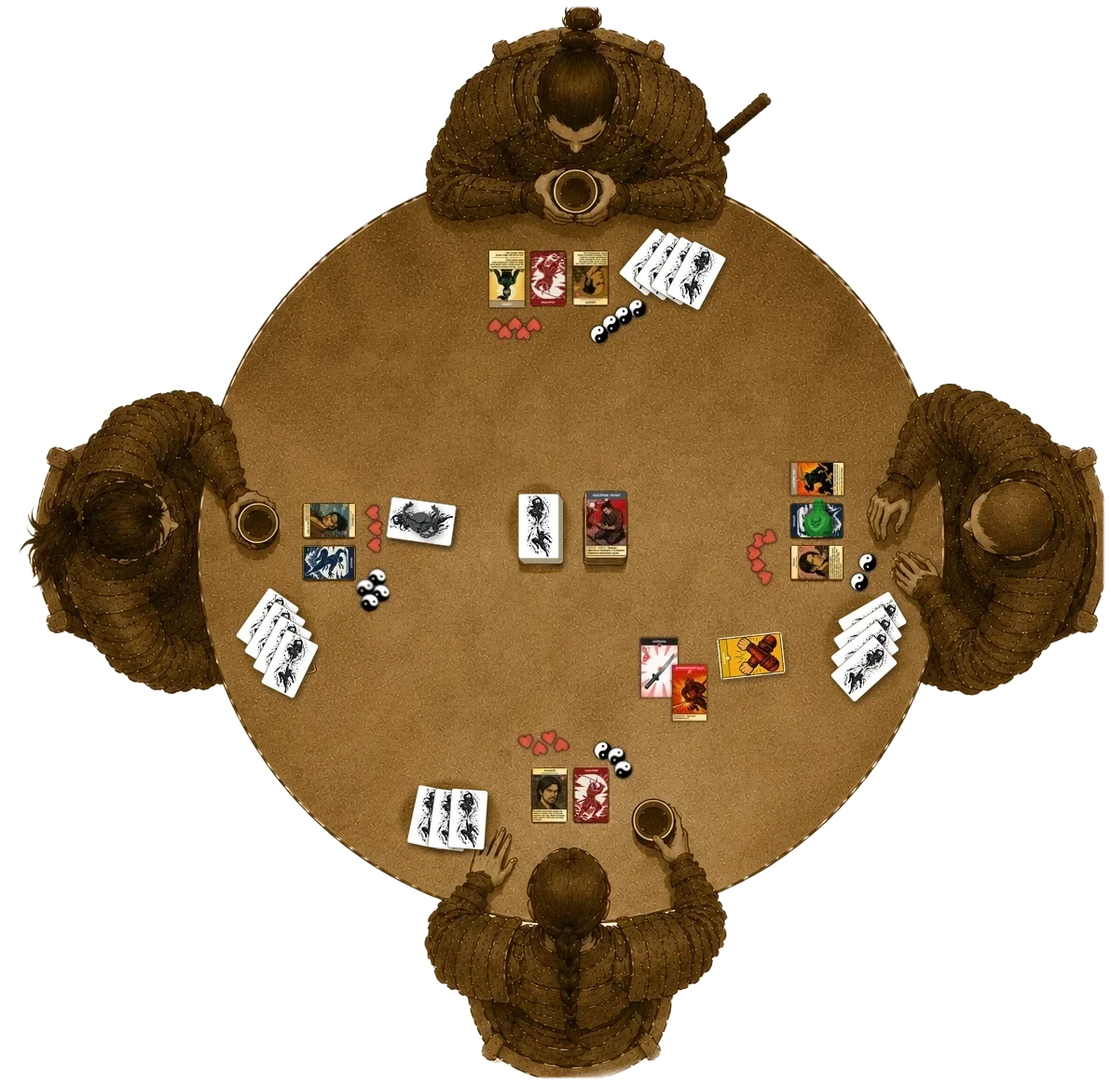
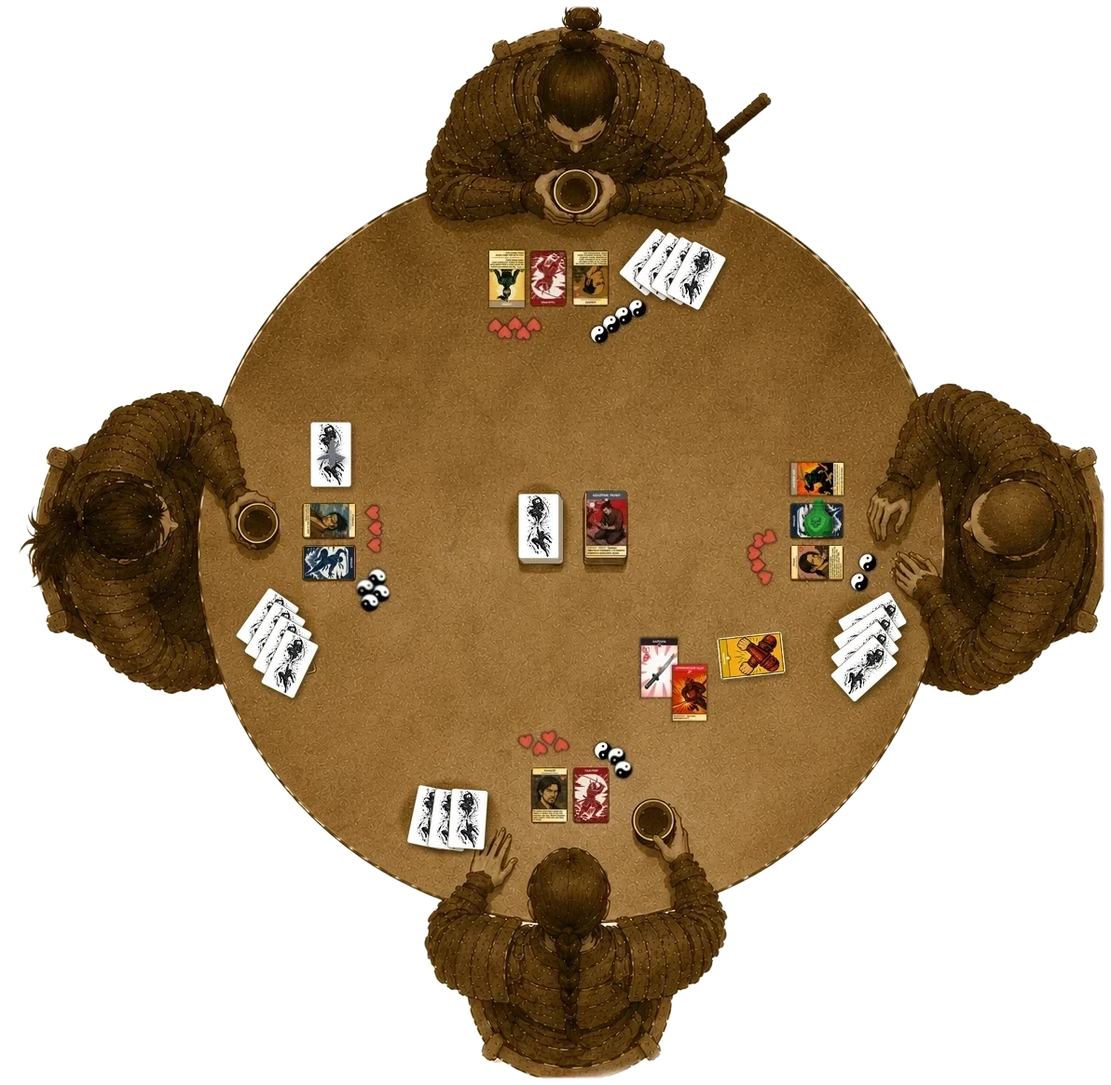
Стол: ловушка — рубашка портретом над персонажем и ролью с фигуркой макибиси; обмен карт — в «Набор карт»
tools/compose-table-trap.py: старый капкан боком закрыт куском исходного
стола (table-v1), новая ловушка (355,488) — перпендикулярно карте персонажа,
макибиси на ней стальная (чёрная на туши рубашки терялась); подписи
«Ловушка» и «Персонаж» в table_fig.py переставлены. Прежний монтаж —
media/obsolete/table-v3-beartrap.webp.
«Ход»: «карты групповых и обычных действий»; абзац про обмен двух карт
перенесён в подраздел «Набор карт» (после врезки, ниже веера рубашек).

Changed region(s): [[0.2794, 0.3708, 0.4346, 0.5253]]

diff --git a/rules/rules.html b/rules/rules.html
@@ -102,12 +102,11 @@
           <div class="side-cards fan n2"><div class="card-embed" style="--k:-0.5;--i:0"><img src="media/cards/109.webp" alt=""></div><div class="card-embed" style="--k:0.5;--i:1"><img src="media/cards/84.webp" alt=""></div></div>
         </aside>
 <p>Ход устроен так: в начале хода игрок сбрасывает лишние карты, чтобы на руке осталось не больше девяти; затем действует; в конце хода набирает карты.</p>
-<p>В свой ход игрок может: провести до двух попыток атаки оружием по любому живому игроку, разыгрывать карты действий и групповых действий, обмениваться картами, выставлять перед собой ловушку, накладывать эффекты, менять стойку и ауру.</p>
-<p>Кроме того, в свой ход можно сбросить две карты одного типа — оружие, ловушка, стойка, защита, эффект, вмешательство, модификатор или групповое действие — и взять одну новую карту из колоды. Либо сбросить две абсолютно одинаковых карты и взять две новых.</p>
+<p>В свой ход игрок может: провести до двух попыток атаки оружием по любому живому игроку, разыгрывать карты групповых и обычных действий, обмениваться картами, выставлять перед собой ловушку, накладывать эффекты, менять стойку и ауру.</p>
 <aside class="note">Между ходами рука не ограничена: что сбросить, игрок решает только перед стартом своего следующего хода — уже зная всё, что случилось за столом.</aside>
         </div>
       </section>
-      <section class="chapter continued" id="turn-4">
+      <section class="chapter continued" id="turn-3">
         <div class="chapter-body">
         <aside class="chapter-side">
           <div class="side-cards fan n2"><div class="card-embed" style="--k:-0.5;--i:0"><img src="media/cards/back.webp" alt=""></div><div class="card-embed" style="--k:0.5;--i:1"><img src="media/cards/back.webp" alt=""></div></div>
@@ -115,6 +114,7 @@
 <h4>Набор карт</h4>
 <p>В конце своего хода вы берёте три карты из колоды, затем каждый игрок противоположной команды берёт по одной. Порядок, в каком игроки тянут карты, не важен — ждать друг друга не нужно.</p>
 <aside class="note">Меньшая команда в неравных режимах берёт на одну карту больше — см. «Неравные команды» в конце правил.</aside>
+<p>Кроме того, в свой ход можно сбросить две карты одного типа — оружие, ловушка, стойка, защита, эффект, вмешательство, модификатор или групповое действие — и взять одну новую карту из колоды. Либо сбросить две абсолютно одинаковых карты и взять две новых.</p>
 <h4>Восстановление</h4>
 <p>Если вы побывали мёртвым, ваш следующий ход начинается с фазы восстановления: вместо обычного сброса до девяти вы можете скинуть любое количество карт и добрать до семи. Умерший от яда восстановления не получает — см. «Яд».</p>
         </div>
@@ -135,7 +135,7 @@
           <h2 class="chapter-title">Стол<span class="kanji" aria-hidden="true">卓</span></h2>
 <p>Так выглядит стол в середине партии на четверых: у каждого игрока перед собой своя зона, посреди стола — общие стопки. Игроки сидят через одного, поэтому напротив — союзник, а по бокам — противники.</p>
 <figure class="table-figure">
-        <div class="table-pic"><img src="media/table.webp" alt="" width="1192" height="1165"><svg class="table-overlay" viewBox="0 0 1192 1165" xmlns="http://www.w3.org/2000/svg" aria-hidden="true"><defs><marker id="tf-arrow" viewBox="0 0 10 10" refX="9" refY="5" markerWidth="5" markerHeight="5" orient="auto-start-reverse"><path d="M0,0 L10,5 L0,10 z"/></marker><marker id="tf-arrow-big" viewBox="0 0 10 10" refX="8" refY="5" markerWidth="4" markerHeight="4" orient="auto-start-reverse"><path d="M0,0 L10,5 L0,10 z"/></marker></defs><path class="tf-flow" d="M 790 1125 C 930 1100 1020 950 1005 775"/><g class="tf-lines"><line x1="480" y1="300" x2="515" y2="300"/><line x1="598" y1="402" x2="593" y2="335"/><line x1="818" y1="357" x2="760" y2="315"/><line x1="359" y1="473" x2="430" y2="540"/><line x1="442" y1="468" x2="365" y2="532"/><line x1="521" y1="523" x2="560" y2="565"/><line x1="692" y1="513" x2="672" y2="530"/><line x1="815" y1="463" x2="855" y2="500"/><line x1="827" y1="545" x2="862" y2="552"/><line x1="813" y1="739" x2="812" y2="732"/><line x1="636" y1="715" x2="688" y2="712"/><line x1="476" y1="793" x2="565" y2="800"/><line x1="704" y1="812" x2="683" y2="812"/></g><g class="tf-labels"><g transform="translate(376,277)"><rect width="104" height="46" rx="8"/><text class="tf-txt" x="52.0" y="24.0">Стойка</text></g><g transform="translate(523,402)"><rect width="154" height="46" rx="8"/><text class="tf-txt" x="77.0" y="24.0">Карта роли</text></g><g transform="translate(810,357)"><rect width="79" height="46" rx="8"/><text class="tf-txt" x="39.5" y="24.0">Рука</text></g><g transform="translate(277,427)"><rect width="116" height="46" rx="8"/><text class="tf-txt" x="58.0" y="24.0">Ловушка</text></g><g transform="translate(406,422)"><rect width="129" height="46" rx="8"/><text class="tf-txt" x="64.5" y="24.0">Персонаж</text></g><g transform="translate(448,477)"><rect width="104" height="46" rx="8"/><text class="tf-txt" x="52.0" y="24.0">Колода</text></g><g transform="translate(674,467)"><rect width="92" height="46" rx="8"/><text class="tf-txt" x="46.0" y="24.0">Сброс</text></g><g transform="translate(732,417)"><rect width="116" height="46" rx="8"/><text class="tf-txt" x="58.0" y="24.0">Эффекты</text></g><g transform="translate(773,517)"><rect width="54" height="46" rx="8"/><text class="tf-txt" x="27.0" y="24.0">Яд</text></g><g transform="translate(763,739)"><rect width="104" height="46" rx="8"/><text class="tf-txt" x="52.0" y="24.0">Защита</text></g><g transform="translate(444,682)"><rect width="191" height="76" rx="8"/><text class="tf-txt" x="95.5" y="24.0">Атака: оружие</text><text class="tf-txt" x="95.5" y="54.0">+ модификатор</text></g><g transform="translate(384,767)"><rect width="92" height="46" rx="8"/><text class="tf-txt" x="46.0" y="24.0">Жизни</text></g><g transform="translate(704,789)"><rect width="191" height="46" rx="8"/><text class="tf-txt" x="95.5" y="24.0">Победные очки</text></g><g transform="translate(1027,937)"><rect width="116" height="46" rx="8"/><text class="tf-txt" x="58.0" y="24.0">Атакует</text></g></g><g class="tf-tags"><g transform="translate(802,127)"><rect width="116" height="46" rx="23"/><text x="58.0" y="24.0">Самурай</text></g><g transform="translate(1028,372)"><rect width="104" height="46" rx="23"/><text x="52.0" y="24.0">Ниндзя</text></g><g transform="translate(702,1037)"><rect width="116" height="46" rx="23"/><text x="58.0" y="24.0">Самурай</text></g><g transform="translate(88,377)"><rect width="104" height="46" rx="23"/><text x="52.0" y="24.0">Ниндзя</text></g></g></svg></div>
+        <div class="table-pic"><img src="media/table.webp" alt="" width="1192" height="1165"><svg class="table-overlay" viewBox="0 0 1192 1165" xmlns="http://www.w3.org/2000/svg" aria-hidden="true"><defs><marker id="tf-arrow" viewBox="0 0 10 10" refX="9" refY="5" markerWidth="5" markerHeight="5" orient="auto-start-reverse"><path d="M0,0 L10,5 L0,10 z"/></marker><marker id="tf-arrow-big" viewBox="0 0 10 10" refX="8" refY="5" markerWidth="4" markerHeight="4" orient="auto-start-reverse"><path d="M0,0 L10,5 L0,10 z"/></marker></defs><path class="tf-flow" d="M 790 1125 C 930 1100 1020 950 1005 775"/><g class="tf-lines"><line x1="480" y1="300" x2="515" y2="300"/><line x1="598" y1="402" x2="593" y2="335"/><line x1="818" y1="357" x2="760" y2="315"/><line x1="355" y1="428" x2="355" y2="452"/><line x1="451" y1="468" x2="383" y2="548"/><line x1="521" y1="523" x2="560" y2="565"/><line x1="692" y1="513" x2="672" y2="530"/><line x1="815" y1="463" x2="855" y2="500"/><line x1="827" y1="545" x2="862" y2="552"/><line x1="813" y1="739" x2="812" y2="732"/><line x1="636" y1="715" x2="688" y2="712"/><line x1="476" y1="793" x2="565" y2="800"/><line x1="704" y1="812" x2="683" y2="812"/></g><g class="tf-labels"><g transform="translate(376,277)"><rect width="104" height="46" rx="8"/><text class="tf-txt" x="52.0" y="24.0">Стойка</text></g><g transform="translate(523,402)"><rect width="154" height="46" rx="8"/><text class="tf-txt" x="77.0" y="24.0">Карта роли</text></g><g transform="translate(810,357)"><rect width="79" height="46" rx="8"/><text class="tf-txt" x="39.5" y="24.0">Рука</text></g><g transform="translate(297,382)"><rect width="116" height="46" rx="8"/><text class="tf-txt" x="58.0" y="24.0">Ловушка</text></g><g transform="translate(406,422)"><rect width="129" height="46" rx="8"/><text class="tf-txt" x="64.5" y="24.0">Персонаж</text></g><g transform="translate(448,477)"><rect width="104" height="46" rx="8"/><text class="tf-txt" x="52.0" y="24.0">Колода</text></g><g transform="translate(674,467)"><rect width="92" height="46" rx="8"/><text class="tf-txt" x="46.0" y="24.0">Сброс</text></g><g transform="translate(732,417)"><rect width="116" height="46" rx="8"/><text class="tf-txt" x="58.0" y="24.0">Эффекты</text></g><g transform="translate(773,517)"><rect width="54" height="46" rx="8"/><text class="tf-txt" x="27.0" y="24.0">Яд</text></g><g transform="translate(763,739)"><rect width="104" height="46" rx="8"/><text class="tf-txt" x="52.0" y="24.0">Защита</text></g><g transform="translate(444,682)"><rect width="191" height="76" rx="8"/><text class="tf-txt" x="95.5" y="24.0">Атака: оружие</text><text class="tf-txt" x="95.5" y="54.0">+ модификатор</text></g><g transform="translate(384,767)"><rect width="92" height="46" rx="8"/><text class="tf-txt" x="46.0" y="24.0">Жизни</text></g><g transform="translate(704,789)"><rect width="191" height="46" rx="8"/><text class="tf-txt" x="95.5" y="24.0">Победные очки</text></g><g transform="translate(1027,937)"><rect width="116" height="46" rx="8"/><text class="tf-txt" x="58.0" y="24.0">Атакует</text></g></g><g class="tf-tags"><g transform="translate(802,127)"><rect width="116" height="46" rx="23"/><text x="58.0" y="24.0">Самурай</text></g><g transform="translate(1028,372)"><rect width="104" height="46" rx="23"/><text x="52.0" y="24.0">Ниндзя</text></g><g transform="translate(702,1037)"><rect width="116" height="46" rx="23"/><text x="58.0" y="24.0">Самурай</text></g><g transform="translate(88,377)"><rect width="104" height="46" rx="23"/><text x="52.0" y="24.0">Ниндзя</text></g></g></svg></div>
         <figcaption>Стол на четверых: самурай — ниндзя — самурай — ниндзя.</figcaption>
       </figure>
 <aside class="note">За большим столом — на восьмерых — колоду и сброс удобно разделить на две стопки и поставить с разных сторон, чтобы каждому было легко дотянуться: колода перетасована, а порядок карт в сбросе не важен.</aside>

diff --git a/rules/rules-en.html b/rules/rules-en.html
@@ -102,12 +102,11 @@
           <div class="side-cards fan n2"><div class="card-embed" style="--k:-0.5;--i:0"><img src="media/cards/109-en.webp" alt=""></div><div class="card-embed" style="--k:0.5;--i:1"><img src="media/cards/84-en.webp" alt=""></div></div>
         </aside>
 <p>A turn goes like this: at the start of the turn the player discards down to nine cards in hand; then they act; at the end of the turn they draw cards.</p>
-<p>On their turn a player may: make up to two weapon attacks against any living player, play action and group cards, trade cards, set a Trap in front of themselves, apply Effects, and change their Stance or Aura.</p>
-<p>Besides that, during your turn you may discard two cards of the same type — Weapon, Trap, Stance, Defense, Effect, Intervention, Modifier or group card — and draw one new card from the deck. Or discard two identical cards and draw two new ones.</p>
+<p>On their turn a player may: make up to two weapon attacks against any living player, play group and ordinary action cards, trade cards, set a Trap in front of themselves, apply Effects, and change their Stance or Aura.</p>
 <aside class="note">Between turns the hand is unlimited: what to discard, a player decides only before their next turn starts — already knowing everything that has happened at the table.</aside>
         </div>
       </section>
-      <section class="chapter continued" id="turn-4">
+      <section class="chapter continued" id="turn-3">
         <div class="chapter-body">
         <aside class="chapter-side">
           <div class="side-cards fan n2"><div class="card-embed" style="--k:-0.5;--i:0"><img src="media/cards/back.webp" alt=""></div><div class="card-embed" style="--k:0.5;--i:1"><img src="media/cards/back.webp" alt=""></div></div>
@@ -115,6 +114,7 @@
 <h4>Drawing cards</h4>
 <p>Cards are drawn at the end of your turn: you take three from the deck, then every player on the opposing team draws one. The order of drawing does not matter — no need to wait for one another.</p>
 <aside class="note">In uneven modes the smaller team draws one extra card — see «Uneven Teams» at the end of the rules.</aside>
+<p>Besides that, during your turn you may discard two cards of the same type — Weapon, Trap, Stance, Defense, Effect, Intervention, Modifier or group card — and draw one new card from the deck. Or discard two identical cards and draw two new ones.</p>
 <h4>Recovery</h4>
 <p>If you have been dead, your next turn starts with a recovery phase: instead of the usual discard down to nine, you may discard any number of cards and draw back up to seven. A player killed by poison gets no recovery — see «Poison».</p>
         </div>
@@ -135,7 +135,7 @@
           <h2 class="chapter-title">The Table<span class="kanji" aria-hidden="true">卓</span></h2>
 <p>This is what a four-player table looks like mid-game: every player has their own area in front of them, and the shared piles sit in the middle. Seats alternate, so the player opposite is your ally and the players on either side are enemies.</p>
 <figure class="table-figure">
-        <div class="table-pic"><img src="media/table.webp" alt="" width="1192" height="1165"><svg class="table-overlay" viewBox="0 0 1192 1165" xmlns="http://www.w3.org/2000/svg" aria-hidden="true"><defs><marker id="tf-arrow" viewBox="0 0 10 10" refX="9" refY="5" markerWidth="5" markerHeight="5" orient="auto-start-reverse"><path d="M0,0 L10,5 L0,10 z"/></marker><marker id="tf-arrow-big" viewBox="0 0 10 10" refX="8" refY="5" markerWidth="4" markerHeight="4" orient="auto-start-reverse"><path d="M0,0 L10,5 L0,10 z"/></marker></defs><path class="tf-flow" d="M 790 1125 C 930 1100 1020 950 1005 775"/><g class="tf-lines"><line x1="480" y1="300" x2="515" y2="300"/><line x1="598" y1="402" x2="593" y2="335"/><line x1="818" y1="357" x2="760" y2="315"/><line x1="359" y1="473" x2="430" y2="540"/><line x1="442" y1="468" x2="365" y2="532"/><line x1="521" y1="523" x2="560" y2="565"/><line x1="692" y1="513" x2="672" y2="530"/><line x1="815" y1="463" x2="855" y2="500"/><line x1="852" y1="550" x2="862" y2="552"/><line x1="813" y1="739" x2="812" y2="732"/><line x1="642" y1="715" x2="688" y2="712"/><line x1="470" y1="793" x2="565" y2="800"/><line x1="698" y1="812" x2="683" y2="812"/></g><g class="tf-labels"><g transform="translate(376,277)"><rect width="104" height="46" rx="8"/><text class="tf-txt" x="52.0" y="24.0">Stance</text></g><g transform="translate(530,402)"><rect width="141" height="46" rx="8"/><text class="tf-txt" x="70.5" y="24.0">Role card</text></g><g transform="translate(810,357)"><rect width="79" height="46" rx="8"/><text class="tf-txt" x="39.5" y="24.0">Hand</text></g><g transform="translate(296,427)"><rect width="79" height="46" rx="8"/><text class="tf-txt" x="39.5" y="24.0">Trap</text></g><g transform="translate(400,422)"><rect width="141" height="46" rx="8"/><text class="tf-txt" x="70.5" y="24.0">Character</text></g><g transform="translate(460,477)"><rect width="79" height="46" rx="8"/><text class="tf-txt" x="39.5" y="24.0">Deck</text></g><g transform="translate(662,467)"><rect width="116" height="46" rx="8"/><text class="tf-txt" x="58.0" y="24.0">Discard</text></g><g transform="translate(732,417)"><rect width="116" height="46" rx="8"/><text class="tf-txt" x="58.0" y="24.0">Effects</text></g><g transform="translate(748,517)"><rect width="104" height="46" rx="8"/><text class="tf-txt" x="52.0" y="24.0">Poison</text></g><g transform="translate(757,739)"><rect width="116" height="46" rx="8"/><text class="tf-txt" x="58.0" y="24.0">Defense</text></g><g transform="translate(438,682)"><rect width="203" height="76" rx="8"/><text class="tf-txt" x="101.5" y="24.0">Attack: weapon</text><text class="tf-txt" x="101.5" y="54.0">+ modifier</text></g><g transform="translate(390,767)"><rect width="79" height="46" rx="8"/><text class="tf-txt" x="39.5" y="24.0">Life</text></g><g transform="translate(698,789)"><rect width="203" height="46" rx="8"/><text class="tf-txt" x="101.5" y="24.0">Victory points</text></g><g transform="translate(1027,937)"><rect width="116" height="46" rx="8"/><text class="tf-txt" x="58.0" y="24.0">Attacks</text></g></g><g class="tf-tags"><g transform="translate(802,127)"><rect width="116" height="46" rx="23"/><text x="58.0" y="24.0">Samurai</text></g><g transform="translate(1034,372)"><rect width="92" height="46" rx="23"/><text x="46.0" y="24.0">Ninja</text></g><g transform="translate(702,1037)"><rect width="116" height="46" rx="23"/><text x="58.0" y="24.0">Samurai</text></g><g transform="translate(94,377)"><rect width="92" height="46" rx="23"/><text x="46.0" y="24.0">Ninja</text></g></g></svg></div>
+        <div class="table-pic"><img src="media/table.webp" alt="" width="1192" height="1165"><svg class="table-overlay" viewBox="0 0 1192 1165" xmlns="http://www.w3.org/2000/svg" aria-hidden="true"><defs><marker id="tf-arrow" viewBox="0 0 10 10" refX="9" refY="5" markerWidth="5" markerHeight="5" orient="auto-start-reverse"><path d="M0,0 L10,5 L0,10 z"/></marker><marker id="tf-arrow-big" viewBox="0 0 10 10" refX="8" refY="5" markerWidth="4" markerHeight="4" orient="auto-start-reverse"><path d="M0,0 L10,5 L0,10 z"/></marker></defs><path class="tf-flow" d="M 790 1125 C 930 1100 1020 950 1005 775"/><g class="tf-lines"><line x1="480" y1="300" x2="515" y2="300"/><line x1="598" y1="402" x2="593" y2="335"/><line x1="818" y1="357" x2="760" y2="315"/><line x1="355" y1="428" x2="355" y2="452"/><line x1="451" y1="468" x2="383" y2="548"/><line x1="521" y1="523" x2="560" y2="565"/><line x1="692" y1="513" x2="672" y2="530"/><line x1="815" y1="463" x2="855" y2="500"/><line x1="852" y1="550" x2="862" y2="552"/><line x1="813" y1="739" x2="812" y2="732"/><line x1="642" y1="715" x2="688" y2="712"/><line x1="470" y1="793" x2="565" y2="800"/><line x1="698" y1="812" x2="683" y2="812"/></g><g class="tf-labels"><g transform="translate(376,277)"><rect width="104" height="46" rx="8"/><text class="tf-txt" x="52.0" y="24.0">Stance</text></g><g transform="translate(530,402)"><rect width="141" height="46" rx="8"/><text class="tf-txt" x="70.5" y="24.0">Role card</text></g><g transform="translate(810,357)"><rect width="79" height="46" rx="8"/><text class="tf-txt" x="39.5" y="24.0">Hand</text></g><g transform="translate(316,382)"><rect width="79" height="46" rx="8"/><text class="tf-txt" x="39.5" y="24.0">Trap</text></g><g transform="translate(400,422)"><rect width="141" height="46" rx="8"/><text class="tf-txt" x="70.5" y="24.0">Character</text></g><g transform="translate(460,477)"><rect width="79" height="46" rx="8"/><text class="tf-txt" x="39.5" y="24.0">Deck</text></g><g transform="translate(662,467)"><rect width="116" height="46" rx="8"/><text class="tf-txt" x="58.0" y="24.0">Discard</text></g><g transform="translate(732,417)"><rect width="116" height="46" rx="8"/><text class="tf-txt" x="58.0" y="24.0">Effects</text></g><g transform="translate(748,517)"><rect width="104" height="46" rx="8"/><text class="tf-txt" x="52.0" y="24.0">Poison</text></g><g transform="translate(757,739)"><rect width="116" height="46" rx="8"/><text class="tf-txt" x="58.0" y="24.0">Defense</text></g><g transform="translate(438,682)"><rect width="203" height="76" rx="8"/><text class="tf-txt" x="101.5" y="24.0">Attack: weapon</text><text class="tf-txt" x="101.5" y="54.0">+ modifier</text></g><g transform="translate(390,767)"><rect width="79" height="46" rx="8"/><text class="tf-txt" x="39.5" y="24.0">Life</text></g><g transform="translate(698,789)"><rect width="203" height="46" rx="8"/><text class="tf-txt" x="101.5" y="24.0">Victory points</text></g><g transform="translate(1027,937)"><rect width="116" height="46" rx="8"/><text class="tf-txt" x="58.0" y="24.0">Attacks</text></g></g><g class="tf-tags"><g transform="translate(802,127)"><rect width="116" height="46" rx="23"/><text x="58.0" y="24.0">Samurai</text></g><g transform="translate(1034,372)"><rect width="92" height="46" rx="23"/><text x="46.0" y="24.0">Ninja</text></g><g transform="translate(702,1037)"><rect width="116" height="46" rx="23"/><text x="58.0" y="24.0">Samurai</text></g><g transform="translate(94,377)"><rect width="92" height="46" rx="23"/><text x="46.0" y="24.0">Ninja</text></g></g></svg></div>
         <figcaption>A table for four: samurai — ninja — samurai — ninja.</figcaption>
       </figure>
 <aside class="note">At a big table — eight players — it is convenient to split the deck and the discard pile in two and place them on opposite sides so that everyone can reach: the deck is shuffled, and the order of cards in the discard pile does not matter.</aside>

diff --git a/rules/content-ru.html b/rules/content-ru.html
@@ -38,12 +38,12 @@
 <section class="chapter" id="turn">
       <h2 class="chapter-title" data-mark="番">Ход</h2>
       <p>Ход устроен так: в начале хода игрок сбрасывает лишние карты, чтобы на руке осталось не больше девяти; затем действует; в конце хода набирает карты.</p>
-      <p>В свой ход игрок может: провести до двух попыток атаки оружием по любому живому игроку, разыгрывать карты действий и групповых действий, обмениваться картами, выставлять перед собой ловушку, накладывать эффекты, менять стойку и ауру.</p>
-      <p>Кроме того, в свой ход можно сбросить две карты одного типа — оружие, ловушка, стойка, защита, эффект, вмешательство, модификатор или групповое действие — и взять одну новую карту из колоды. Либо сбросить две абсолютно одинаковых карты и взять две новых.</p>
+      <p>В свой ход игрок может: провести до двух попыток атаки оружием по любому живому игроку, разыгрывать карты групповых и обычных действий, обмениваться картами, выставлять перед собой ловушку, накладывать эффекты, менять стойку и ауру.</p>
       <aside class="note">Между ходами рука не ограничена: что сбросить, игрок решает только перед стартом своего следующего хода — уже зная всё, что случилось за столом.</aside>
       <h4>Набор карт</h4>
       <p>В конце своего хода вы берёте три карты из колоды, затем каждый игрок противоположной команды берёт по одной. Порядок, в каком игроки тянут карты, не важен — ждать друг друга не нужно.</p>
       <aside class="note">Меньшая команда в неравных режимах берёт на одну карту больше — см. «Неравные команды» в конце правил.</aside>
+      <p>Кроме того, в свой ход можно сбросить две карты одного типа — оружие, ловушка, стойка, защита, эффект, вмешательство, модификатор или групповое действие — и взять одну новую карту из колоды. Либо сбросить две абсолютно одинаковых карты и взять две новых.</p>
       <h4>Восстановление</h4>
       <p>Если вы побывали мёртвым, ваш следующий ход начинается с фазы восстановления: вместо обычного сброса до девяти вы можете скинуть любое количество карт и добрать до семи. Умерший от яда восстановления не получает — см. «Яд».</p>
     </section>

diff --git a/rules/content-en.html b/rules/content-en.html
@@ -36,12 +36,12 @@
 <section class="chapter" id="turn">
       <h2 class="chapter-title" data-mark="番">The Turn</h2>
       <p>A turn goes like this: at the start of the turn the player discards down to nine cards in hand; then they act; at the end of the turn they draw cards.</p>
-      <p>On their turn a player may: make up to two weapon attacks against any living player, play action and group cards, trade cards, set a Trap in front of themselves, apply Effects, and change their Stance or Aura.</p>
-      <p>Besides that, during your turn you may discard two cards of the same type — Weapon, Trap, Stance, Defense, Effect, Intervention, Modifier or group card — and draw one new card from the deck. Or discard two identical cards and draw two new ones.</p>
+      <p>On their turn a player may: make up to two weapon attacks against any living player, play group and ordinary action cards, trade cards, set a Trap in front of themselves, apply Effects, and change their Stance or Aura.</p>
       <aside class="note">Between turns the hand is unlimited: what to discard, a player decides only before their next turn starts — already knowing everything that has happened at the table.</aside>
       <h4>Drawing cards</h4>
       <p>Cards are drawn at the end of your turn: you take three from the deck, then every player on the opposing team draws one. The order of drawing does not matter — no need to wait for one another.</p>
       <aside class="note">In uneven modes the smaller team draws one extra card — see «Uneven Teams» at the end of the rules.</aside>
+      <p>Besides that, during your turn you may discard two cards of the same type — Weapon, Trap, Stance, Defense, Effect, Intervention, Modifier or group card — and draw one new card from the deck. Or discard two identical cards and draw two new ones.</p>
       <h4>Recovery</h4>
       <p>If you have been dead, your next turn starts with a recovery phase: instead of the usual discard down to nine, you may discard any number of cards and draw back up to seven. A player killed by poison gets no recovery — see «Poison».</p>
     </section>

diff --git a/tools/compose-table-trap.py b/tools/compose-table-trap.py
@@ -1,0 +1,65 @@
+# -*- coding: utf-8 -*-
+"""Стол: ловушка левого игрока — рубашка вверх, перпендикулярно карте персонажа
+(портретом, без наклона), ровно над персонажем и ролью; сверху — фигурка макибиси
+(rules/media/fig/trap.webp). Прежний капкан боком между сердцами и колодой закрашивается
+клоном текстуры. Аргументы: <src.webp> <out.webp>. Хелперы — из compose-table-backs.py."""
+import sys, os, runpy
+from PIL import Image, ImageDraw, ImageFilter, ImageOps
+sys.stdout.reconfigure(encoding='utf-8')
+os.chdir(r'C:\ninja_samurai\cardboard')
+src, out = sys.argv[1:3]
+im = Image.open(src).convert('RGBA')
+S = 4
+BACK = 'rules/media/cards/back.webp'
+
+def down(l): return l.resize((max(1, round(l.width / S)), max(1, round(l.height / S))), Image.LANCZOS)
+def shadow(layer, blur=3, dx=2, dy=3, op=0.45):
+    a = layer.split()[3]
+    sh = Image.new('RGBA', (layer.width + 2*blur + abs(dx), layer.height + 2*blur + abs(dy)), (0, 0, 0, 0))
+    sh.paste(Image.new('RGBA', layer.size, (20, 10, 0, int(255*op))), (blur + max(dx, 0), blur + max(dy, 0)), a)
+    return sh.filter(ImageFilter.GaussianBlur(blur)), (blur, blur)
+def paste_center(base, layer, cx, cy, with_shadow=True):
+    if with_shadow:
+        sh, off = shadow(layer)
+        base.alpha_composite(sh, (int(round(cx - layer.width/2 - off[0])), int(round(cy - layer.height/2 - off[1]))))
+    base.alpha_composite(layer, (int(round(cx - layer.width/2)), int(round(cy - layer.height/2))))
+
+def card_face(webp, w, h, b=1*S, outline=(120, 100, 70, 255)):
+    art = Image.open(webp).convert('RGBA')
+    tw = round(art.height * (w - 2*b) / (h - 2*b))
+    if art.width > tw:
+        x0 = (art.width - tw) // 2; art = art.crop((x0, 0, x0 + tw, art.height))
+    art = art.resize((w - 2*b, h - 2*b), Image.LANCZOS)
+    card = Image.new('RGBA', (w, h), (0, 0, 0, 0))
+    m = Image.new('L', (w, h), 0); ImageDraw.Draw(m).rounded_rectangle((0, 0, w-1, h-1), 3*S, fill=255)
+    card.paste((246, 240, 228, 255), (0, 0, w, h), m)
+    card.alpha_composite(art, (b, b))
+    d = ImageDraw.Draw(card); d.rounded_rectangle((0, 0, w-1, h-1), 3*S, outline=outline, width=S//2)
+    return card
+
+# прежняя ловушка боком (между сердцами и колодой) — на её место кладётся тот же
+# кусок стола из исходника без дорисовок (media/obsolete/table-v1.webp), с мягкой маской
+V1 = Image.open('rules/media/obsolete/table-v1.webp').convert('RGBA')
+def restore(cx, cy, rx, ry):
+    box = (int(cx - rx - 10), int(cy - ry - 10), int(cx + rx + 10), int(cy + ry + 10))
+    tex = V1.crop(box)
+    m = Image.new('L', (tex.width*S, tex.height*S), 0)
+    ImageDraw.Draw(m).ellipse((10*S, 10*S, (10+2*rx)*S, (10+2*ry)*S), fill=255)
+    m = m.resize(tex.size, Image.LANCZOS).filter(ImageFilter.GaussianBlur(4))
+    tex.putalpha(m)
+    im.alpha_composite(tex, box[:2])
+restore(452, 560, 44, 44)
+
+# новая: портретом ровно над столбиком «персонаж (355,555) — роль (355,605)»
+TX, TY = 355, 488
+trapback = down(card_face(BACK, 44*S, 70*S))
+paste_center(im, trapback, TX, TY)
+fig = Image.open('rules/media/fig/trap.webp').convert('RGBA')
+# чёрная фигурка на чёрной туши рубашки пропадает — на столе она светлее, стальная
+a = fig.getchannel('A')
+fig = ImageOps.colorize(fig.convert('L'), black=(60, 62, 70), mid=(150, 153, 162), white=(235, 236, 240)).convert('RGBA'); fig.putalpha(a)
+fig = ImageOps.contain(fig, (34*S, 34*S), Image.LANCZOS)
+paste_center(im, down(fig), TX, TY - 1)
+
+im.save(out, 'WEBP', quality=90, method=6)
+print('written', out, im.size)

diff --git a/tools/build-rules-new.py b/tools/build-rules-new.py
@@ -59,8 +59,8 @@ CH = {
                        cards={0: [202, 200, 'back-role'], 6: [137, 135, 'back-character']}),   # роли и их рубашка — у «Распределения ролей», персонажи и их рубашка — у «Выбора персонажей»; рубашка последней — сверху, видна целиком
  'table':         dict(icons=[],                                        cards=[]),   # стол во время партии (глава собирается из table_fig)
  'flow':          dict(icons=[],                                        cards=[]),
- 'turn':          dict(layout={0: 'fan', 4: 'fan'}, icons=[],
-                       cards={0: [109, 84], 4: ['back', 'back']}),   # у хода — действие «Саке» и групповое «Чайная церемония» сверху; у «Набора карт» — две рубашки
+ 'turn':          dict(layout={0: 'fan', 3: 'fan'}, icons=[],
+                       cards={0: [109, 84], 3: ['back', 'back']}),   # у хода — действие «Саке» и групповое «Чайная церемония» сверху; у «Набора карт» — две рубашки
  'death':         dict(icons=[],                                        cards=[]),
  'players':       dict(icons=[],                                        cards=[]),
  'weapons':       dict(layout={0: 'stack', 10: 'fan'}, icons=[[('ic','weapon'),('ic','modifier')]],
@@ -91,7 +91,7 @@ PAGES = [
     ['__title__'],                      # титул: рисунок, название, подзаголовок — без номера, в счёт не идёт
     ['__cover__', 'about', ('setup', 0, 4)],   # шапка с рисунком, об игре, подготовка: роли
     [('setup', 4, 6), ('setup', 6, None), 'flow'],   # рассадка; персонажи и жетоны; партия и её окончание
-    [('turn', 0, 4), ('turn', 4, None), 'death'],   # ход; набор карт и восстановление — со своими рубашками; смерть
+    [('turn', 0, 3), ('turn', 3, None), 'death'],   # ход; набор карт и восстановление — со своими рубашками; смерть
     ['table'],                       # стол во время партии — один на странице
     [('weapons', 0, 10)],            # атака: оружие, два режима, сложность
     [('weapons', 10, None), 'defense', 'thrust'],   # модификатор и любимое оружие со своими картами; защита; выпад

diff --git a/tools/table_fig.py b/tools/table_fig.py
@@ -18,7 +18,8 @@ W, H = 1192, 1165
 # правый: столбик эффектов (878,515…605), бутылка яда на карте роли (879,556),
 # карта защиты (806,704); нижний: сердца (585,800), очки (655,810), персонаж
 # (587,855); центр: колода (578,565), сброс (650,565); атака (705,715)+(740,740);
-# ловушка левого игрока — рубашка с капканом (452,560), между его сердцами и колодой.
+# ловушка левого игрока — рубашка вверх портретом с фигуркой макибиси (355,488), ровно над
+# его персонажем и ролью (tools/compose-table-trap.py; прежний капкан боком — obsolete/table-v3-beartrap.webp).
 # Стрелка атаки: нижний самурай атакует правого ниндзя (FLOW).
 # Бутылка, капкан и карта защиты дорисованы поверх фото (rules/media/obsolete/
 # table-v1.webp — исходник без них) скриптом-монтажом: фигурки — /img, карта —
@@ -28,8 +29,8 @@ LABELS = [
     ('stance',    (428, 300), (515, 300)),    # слева от стойки, у кромки
     ('role',      (600, 425), (593, 335)),    # под картами верхнего игрока
     ('hand',      (850, 380), (760, 315)),    # справа-снизу от веера
-    ('trap',      (335, 450), (430, 540)),    # слева-сверху от ловушки левого игрока
-    ('character', (470, 445), (365, 532)),    # верхняя левая четверть
+    ('trap',      (355, 405), (355, 452)),    # над ловушкой левого игрока — она портретом над персонажем и ролью
+    ('character', (470, 445), (383, 548)),    # верхняя левая четверть, стрелка к правому краю персонажа
     ('deck',      (500, 500), (560, 565)),    # слева-сверху от колоды
     ('discard',   (720, 490), (672, 530)),    # справа-сверху от сброса
     ('effect',    (790, 440), (855, 500)),    # над столбиком эффектов

diff --git a/CLAUDE.md b/CLAUDE.md
@@ -341,8 +341,10 @@ diff'у мучительно. Место дешевле времени.
   блоков главы и картинка складываются в flex-строку `.fig-row`, низ
   картинки — по низу последнего блока, правый край — по краю колонки.
 - **Стол во время партии** — `rules/media/table.webp` (фото стола, белый
-  фон вырезан в прозрачность; бутылка яда, капкан на рубашке и карта
-  защиты дорисованы поверх, исходник без них — `media/obsolete/table-v1.webp`)
+  фон вырезан в прозрачность; бутылка яда, ловушка — рубашка портретом
+  над персонажем и ролью с фигуркой макибиси (`tools/compose-table-trap.py`)
+  — и карта защиты дорисованы поверх, исходник без них —
+  `media/obsolete/table-v1.webp`, прежние монтажи — там же `table-v2…v3`)
   + SVG-слой со стрелками и подписями из
   `tools/table_fig.py`; координаты в пикселях картинки, общие для RU/EN,
   тексты подписей — в словаре `TXT` там же. Подписи стоят внутри стола,
